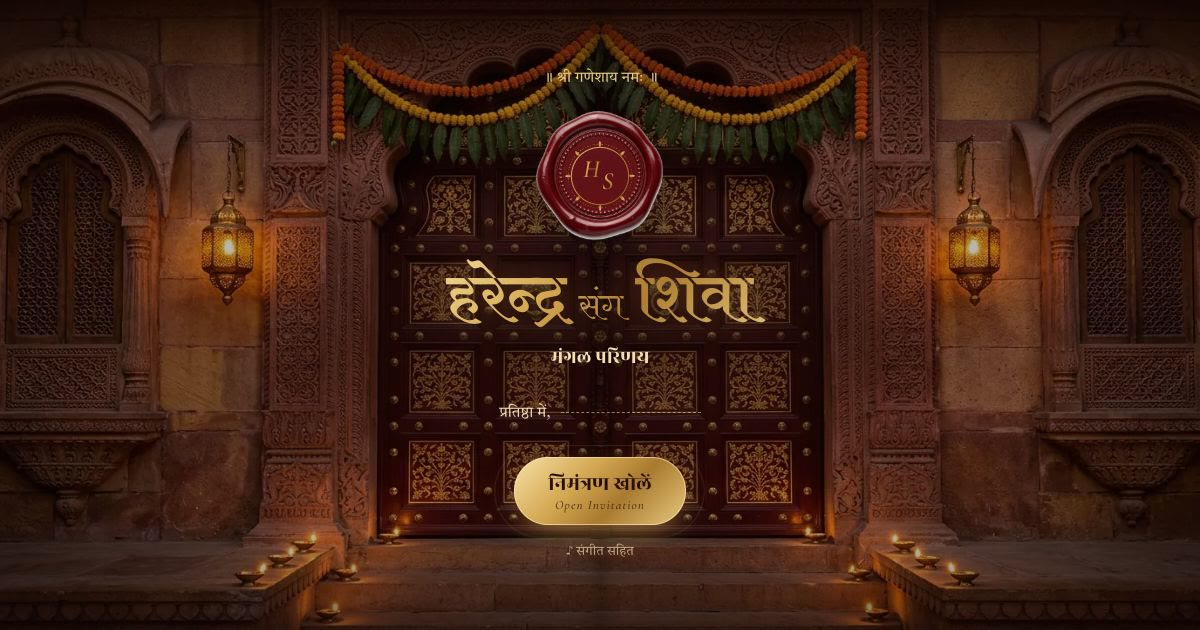
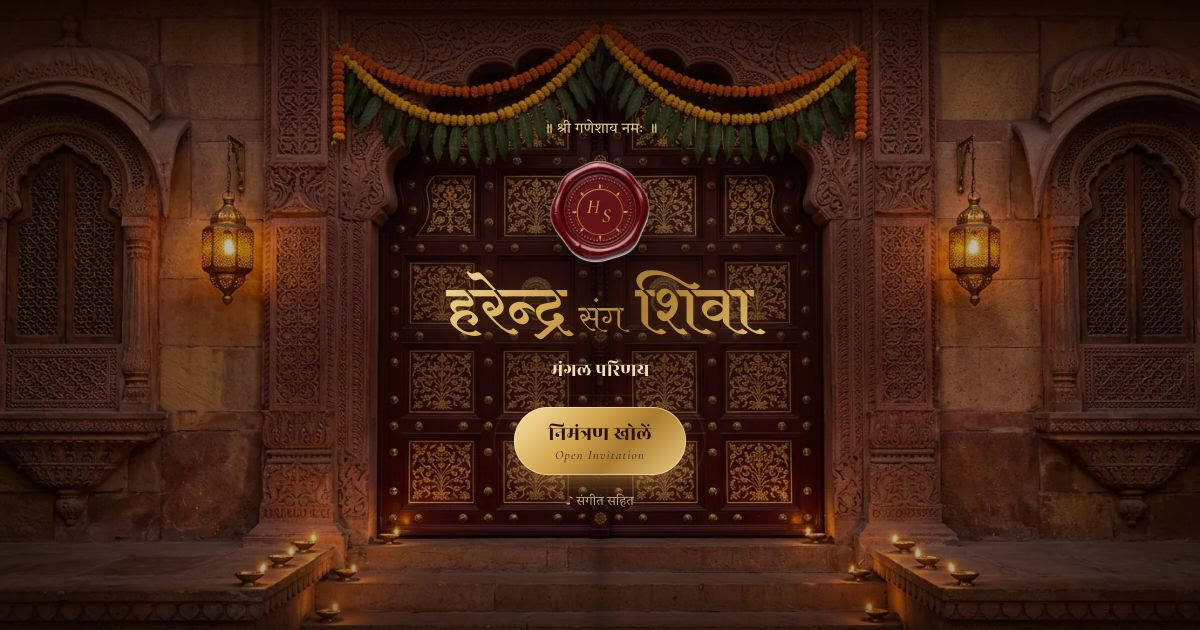
Make the invitation generic: drop guest name line
Removes the ?to= personalisation and the "प्रतिष्ठा में, श्रीमान् …" line
from the opening screen; every guest gets the same link. Regenerates the
og:image preview without the line.

Changed region(s): [[0.37, 0.181, 0.6475, 0.6032], [0.4008, 0.6333, 0.5858, 0.9048], [0.4625, 0.0905, 0.5242, 0.1508]]

diff --git a/src/components/Gate.jsx b/src/components/Gate.jsx
@@ -10,7 +10,7 @@ const ease = [0.7, 0, 0.2, 1]
  * Tap-to-enter screen: carved palace doors with the HS seal.
  * Tapping starts the music (user gesture) and swings the doors open.
  */
-export default function Gate({ guest, onOpen, onDone }) {
+export default function Gate({ onOpen, onDone }) {
   const [opening, setOpening] = useState(false)
 
   const open = () => {
@@ -83,24 +83,6 @@ export default function Gate({ guest, onOpen, onDone }) {
         >
           {cover.title}
         </motion.p>
-
-        <motion.div
-          className="gate__to"
-          initial={{ opacity: 0 }}
-          animate={{ opacity: 1 }}
-          transition={{ delay: 1.4, duration: 1 }}
-        >
-          <span>{cover.addressedTo}</span>
-          <span className="gate__to-name">
-            {guest ? (
-              <>
-                {cover.honorific} {guest}
-              </>
-            ) : (
-              <i aria-hidden="true" />
-            )}
-          </span>
-        </motion.div>
 
         <motion.button
           type="button"

diff --git a/src/index.css b/src/index.css
@@ -232,26 +232,8 @@ a {
   letter-spacing: 0.12em;
   color: #f3dfb1;
 }
-.gate__to {
-  margin: 22px 0 28px;
-  display: flex;
-  align-items: baseline;
-  gap: 10px;
-  font-size: 15px;
-  color: #ecd9b0;
-}
-.gate__to-name {
-  font-family: var(--f-display);
-  font-size: 19px;
-  color: #fff3d6;
-}
-.gate__to-name i {
-  display: inline-block;
-  width: 140px;
-  border-bottom: 1px dashed rgba(233, 205, 136, 0.6);
-  transform: translateY(-4px);
-}
 .gate__btn {
+  margin-top: 32px;
   --pad: 15px 34px 12px;
   font-size: 21px;
 }
@@ -1294,8 +1276,8 @@ h1, h2, h3, p, dd, blockquote {
   .gate__names {
     margin-top: calc(12px - 0.32em);
   }
-  .gate__to {
-    margin: 12px 0 18px;
+  .gate__btn {
+    margin-top: 20px;
   }
 }
 @media (max-height: 560px) {

diff --git a/src/App.jsx b/src/App.jsx
@@ -28,7 +28,6 @@ const NAV = [
 
 export default function App() {
   const params = useMemo(() => new URLSearchParams(location.search), [])
-  const guest = params.get('to')?.trim().slice(0, 60) || ''
   // ?open skips the door screen (direct link / previews); music then waits for the toggle.
   const skipGate = params.has('open')
   const [gateOpen, setGateOpen] = useState(!skipGate)
@@ -93,7 +92,6 @@ export default function App() {
       <AnimatePresence>
         {gateOpen && (
           <Gate
-            guest={guest}
             onOpen={() => {
               startMusic()
               setStarted(true)

diff --git a/src/content.js b/src/content.js
@@ -12,8 +12,6 @@ export const cover = {
   title: 'मंगल परिणय',
   ceremony: ['टीका पाणिग्रहण संस्कार', 'एवं प्रीतिभोज'],
   dateLine: 'बुधवार दिनांक 25 नवम्बर 2026',
-  addressedTo: 'प्रतिष्ठा में,',
-  honorific: 'श्रीमान्',
 }
 
 export const invocation = {

diff --git a/README.md b/README.md
@@ -46,16 +46,9 @@ Any other static host works too (it serves from the root, so no `BASE_PATH`):
 `og:image` in `index.html` is an absolute GitHub Pages URL so WhatsApp shows the
 preview card; change it if you move to another domain.
 
-## Personalised links
+## Links
 
-Add `?to=` with the guest's name, and it appears on the opening screen in the
-card's "प्रतिष्ठा में, श्रीमान् …" line:
-
-```
-https://<your-domain>/?to=रमेश%20शर्मा%20एवं%20परिवार
-```
-
-Without `?to=` the line shows a blank rule, like the printed card.
+The invitation is generic: every guest gets the same link.
 Add `?open` to skip the door screen and land straight on the invitation (music then starts from the toggle).
 
 ## Editing content
